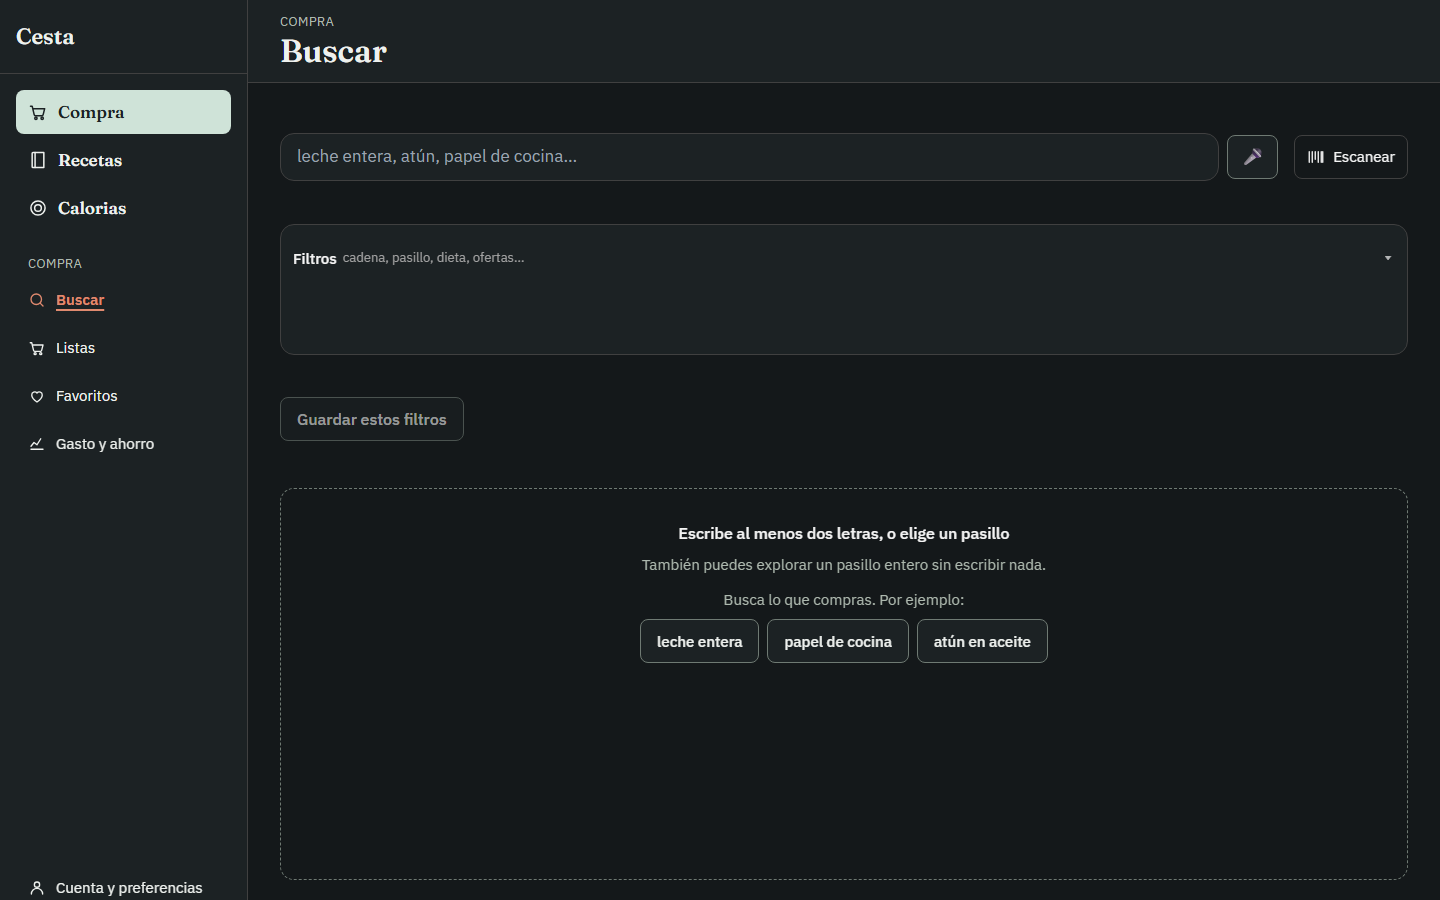
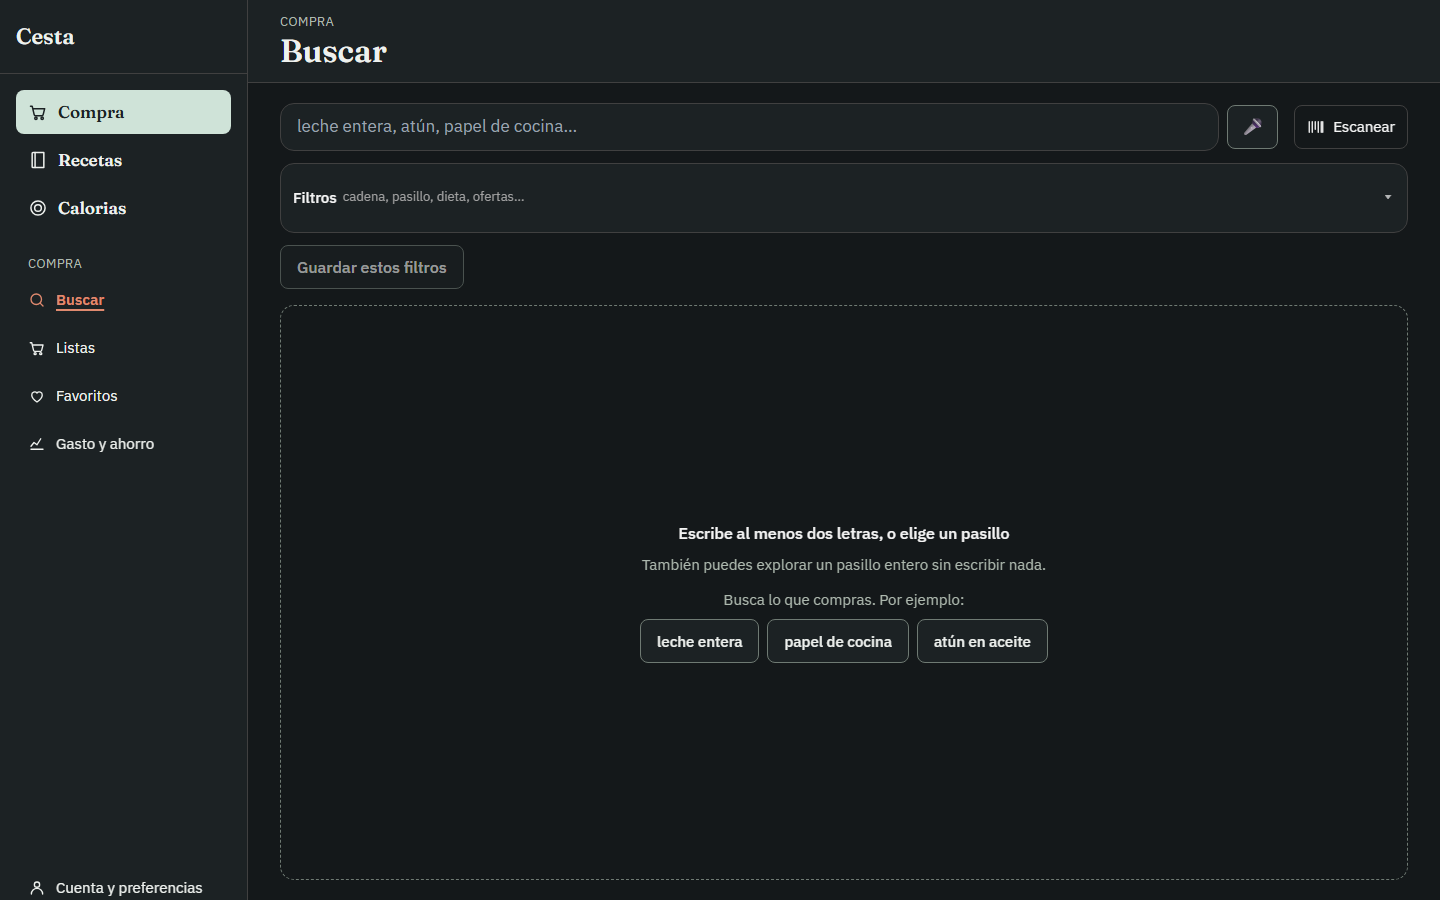
UI FASE 5 (Buscar, 2) -- EL ESTADO VACIO, CENTRADO, Y CON EL ALTO EN SU SITIO. Dos cambios pequenos, y el segundo corrige un efecto secundario del primero que la captura delato. (1) LA PIEZA: Vacio gana grid content-center y un className opcional. content-center porque, desde que la rejilla de Busca

diff --git a/plataforma/web/app/src/paginas/Buscar.tsx b/plataforma/web/app/src/paginas/Buscar.tsx
@@ -143,7 +143,7 @@ export function Buscar() {
     // entre las filas.*** *O sea que la pantalla **se llena** sin mover nada de sitio
     // ni inventar contenido -- *que es lo mismo que se hizo en el lanzador con
     // `my-auto`, *pero aqui la rejilla **ya estaba**, *y solo le faltaba el alto.* *
-    <div className="grid min-h-full grid-cols-1 gap-4">
+    <div className="flex min-h-full flex-col gap-4">
       {/* El titulo de la pantalla, para quien navega por encabezados: no se ve, porque en esta
           pantalla lo primero tiene que ser el campo de busqueda -- se usa de pie y con una
           mano, y un titular encima solo empuja los resultados hacia abajo. Medido con
@@ -216,7 +216,7 @@ export function Buscar() {
       </section>
 
       {!busca && (
-        <Vacio titulo="Escribe al menos dos letras, o elige un pasillo">
+        <Vacio titulo="Escribe al menos dos letras, o elige un pasillo" className="grow">
           <p>
             {filtros.q.trim().length === 1
               ? 'Con una sola letra no busco: casaría con media tienda y la lista no diría nada.'

diff --git a/plataforma/web/app/src/componentes/ui.tsx b/plataforma/web/app/src/componentes/ui.tsx
@@ -438,14 +438,16 @@ export function Fallo({ error, reintentar }: { error: unknown; reintentar?: () =
  * (medido con `data/debug/accesibilidad.py` el 27 de septiembre de 2026, que encontro cinco
  * casos asi). Las clases son las mismas: cambia la etiqueta, no lo que se ve.
  */
-export function Vacio({ titulo, children, comoPagina = false }: {
+export function Vacio({ titulo, children, comoPagina = false, className }: {
  titulo: ReactNode
  children?: ReactNode
  comoPagina?: boolean
+  /** *Para que quien lo usa pueda hacerlo **crecer.*** */
+  className?: string
 }) {
  const Titulo = comoPagina ? 'h1' : 'p'
  return (
- <div className="rounded-tarjeta border border-dashed border-borde-fuerte px-4 py-8 text-center ">
+ <div className={cx('grid content-center rounded-tarjeta border border-dashed border-borde-fuerte px-4 py-8 text-center ', className)}>
  <Titulo className="font-medium">{titulo}</Titulo>
  {children && (
  <div className="mx-auto mt-2 max-w-prose text-cuerpo text-secundaria ">
